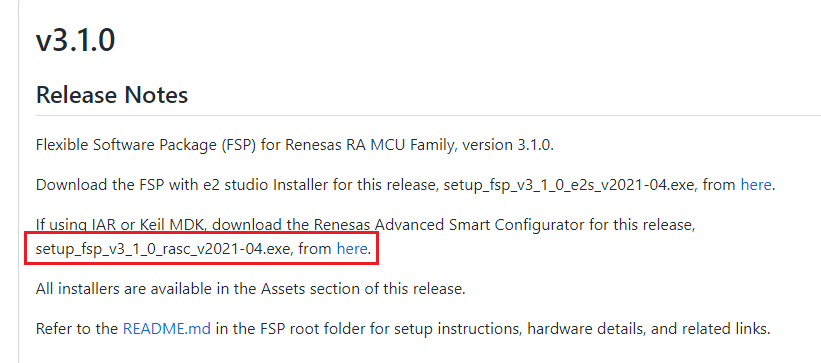
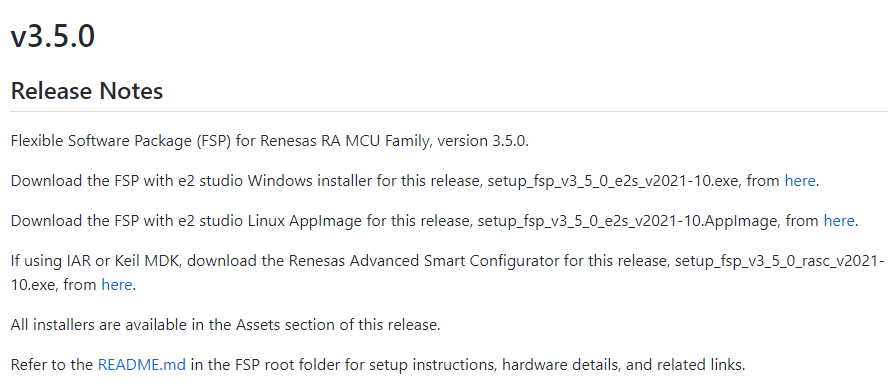
[update]更新FSP版本提示

diff --git a/README.md b/README.md
@@ -32,7 +32,7 @@
 - GNU_Tools_for_ARM_Embedded_Processors v6.3.1 或 v10.2.1，默认配置为 v10.2.1
 
 ![image-20211223152205419](image/gcc.png) 
-- [RASC](https://github.com/renesas/fsp/releases)（可选）：版本 fsp v3.1.0、rasc v2021-04
+- [RASC](https://github.com/renesas/fsp/releases/tag/v3.5.0)：版本 **setup_fsp_v3_5_0_rasc_v2021-10.exe**
 
 ![image-20211217012025247](image/rasc下载.png) 
 - 阿里云：[生活物联网平台](https://living.aliyun.com/)
@@ -164,9 +164,9 @@
 1. 配置所需要的软件包、组件、外设驱动
 
 - 创建 CPK-RA6M4 模板工程
-- 添加 [RW007](http://packages.rt-thread.org/detail.html?package=rw007) 软件包，配置说明：[使用瑞萨FSP配置工具](https://gitee.com/rtthread/rt-thread/blob/master/bsp/ra6m4-cpk/docs) RW007 部分。
+- 添加 [RW007](http://packages.rt-thread.org/detail.html?package=rw007) 软件包，配置说明：[使用瑞萨FSP配置工具](https://gitee.com/rtthread/rt-thread/blob/master/bsp/ra6m4-cpk/docs) RW007 部分
 - 添加 [ali-iotkit](http://packages.rt-thread.org/detail.html?package=ali-iotkit) 软件包
-- 修改 cJSON 软件包配置：版本号为 v1.7.14 。
+- 修改 CJSON 软件包配置：**版本号为 v1.7.14** 
 - 添加 ISL29035 传感器软件包
 
 2. 云平台创建产品，将设备的三元组信息配置到工程中
